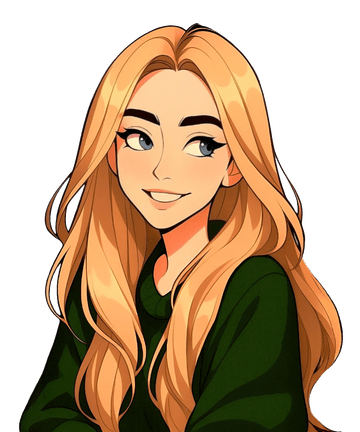
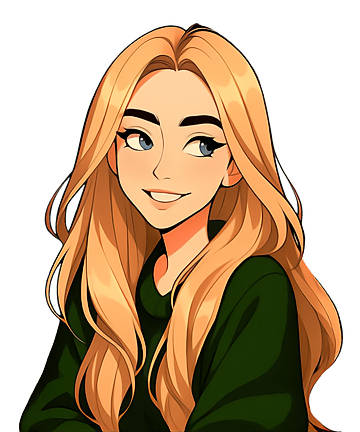
improve about pix

diff --git a/about.md b/about.md
@@ -9,4 +9,4 @@ The internet has indulged every single one of our hedonist whims, and I think I 
 
 Thanks for reading.
 
-<img alt="I AM LOGGED IN, THEREFORE I AM." style="margin: auto;" src="/images/i-am.png">
+<img alt="I AM LOGGED IN, THEREFORE I AM." style="margin: auto; max-width: 300px;" src="/images/i-am.png">
